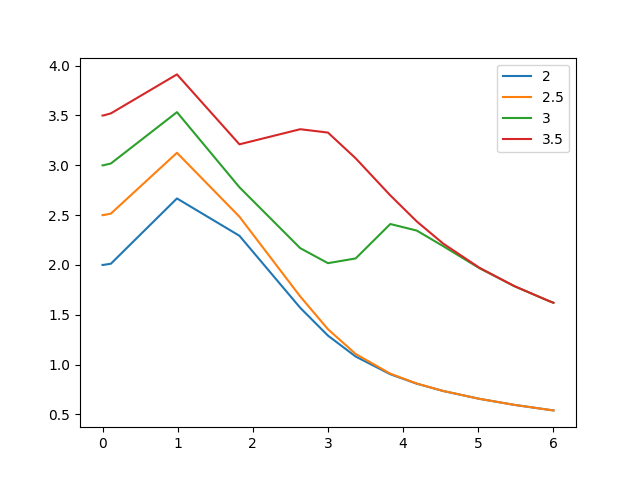
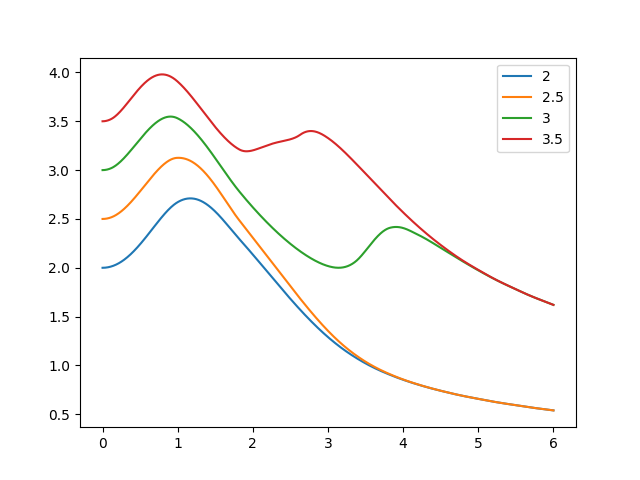
Lista 7. Zadanie 1.

diff --git a/Lista_7/zad1_lista7.py b/Lista_7/zad1_lista7.py
@@ -10,8 +10,8 @@ def f(t, y):
 
 # Dane
 y0 = [2, 2.5, 3, 3.5]
-# Rozwiązanie w zadanycm przedziale
-rozwiazanie = solve_ivp(f, (0, 6), y0)
+# Rozwiązania w zadanycm przedziale
+rozwiazanie = solve_ivp(f, (0, 6), y0, t_eval=np.linspace(0, 6, 1000))
 
 # Wykres rozwiązań
 for i in range(len(y0)):
